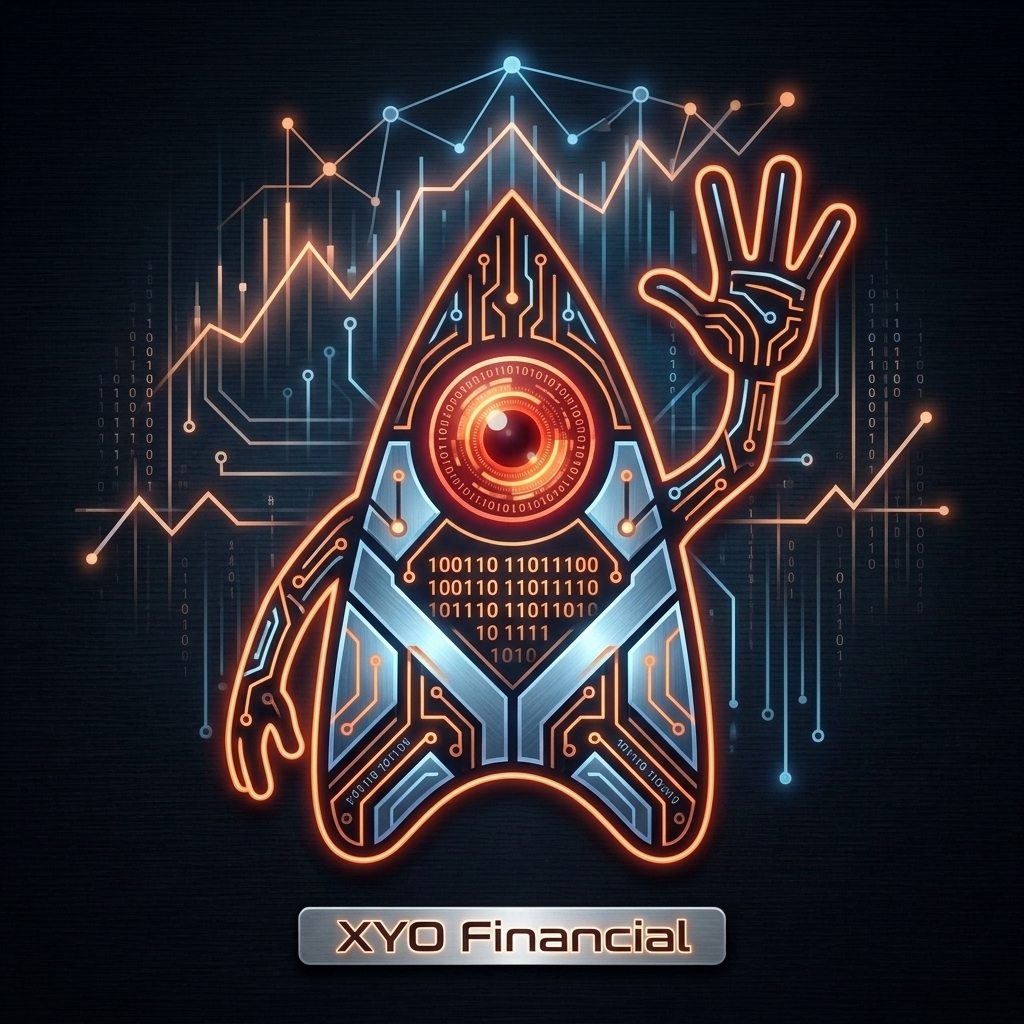
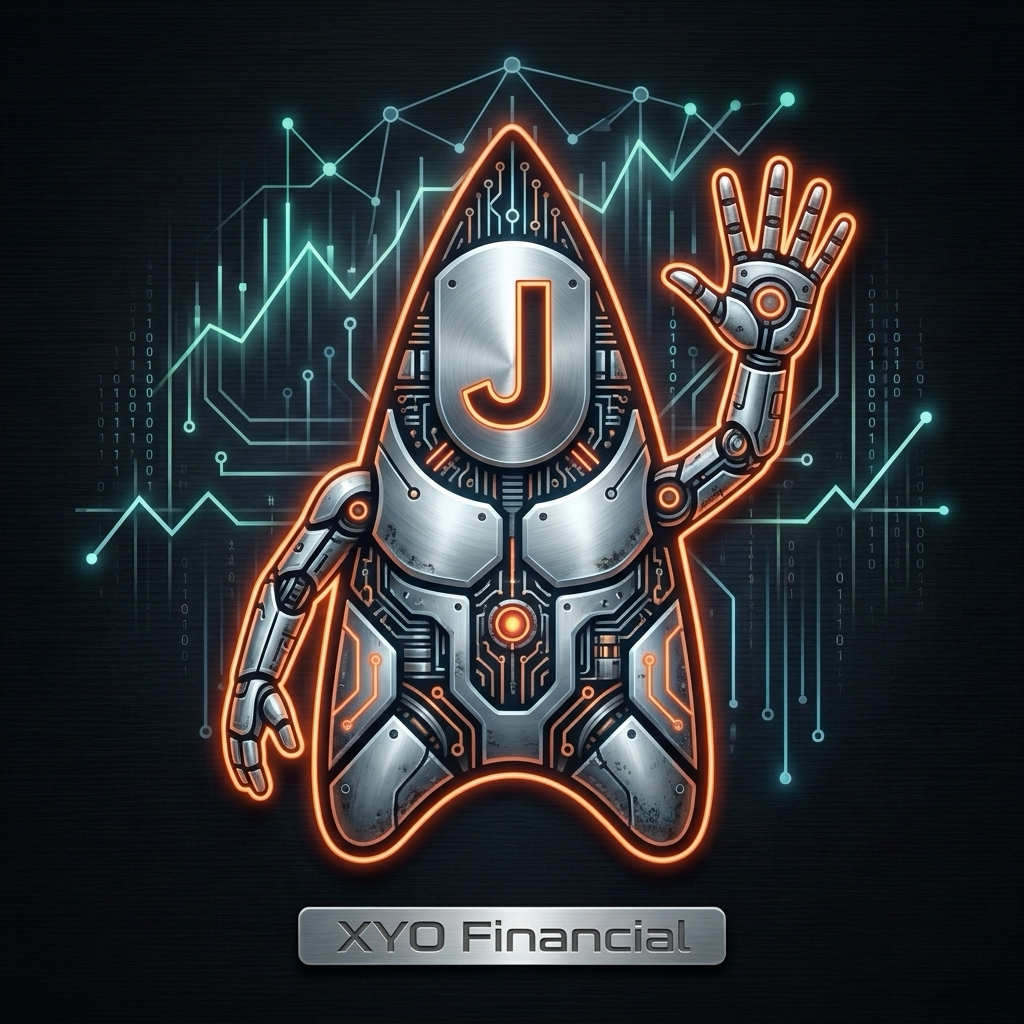
style(docs): update Java mascot with non-glowing plaque typography and refresh instructions

Changed region(s): [[0.0625, 0.0312, 0.9375, 0.8438], [0.3125, 0.875, 0.6875, 0.9375]]

diff --git a/docs/mascot_generation_instructions.md b/docs/mascot_generation_instructions.md
@@ -3,11 +3,10 @@
 The `mascot.png` image in this directory was generated using an AI image generation tool to match the cohesive high-tech aesthetic of our other SDKs.
 
 ## 💡 Idea and Concept
-The mascot is inspired by Duke, the iconic official mascot of the Java programming language. We reimagined Duke as a **sleek, cybernetic entity** featuring vibrant neon orange circuit board patterns. This design brings the classic mascot into the unified, high-tech aesthetic established by the Rust, Node.js, PHP, C++, and Golang SDK mascots. It also features the 'XYO Financial' plate.
+The mascot is inspired by Duke, the iconic official mascot of the Java programming language. We reimagined Duke as a **sleek, cybernetic entity** featuring vibrant neon orange circuit board patterns. This design brings the classic mascot into the unified, high-tech aesthetic established by the Rust, Node.js, PHP, C++, and Golang SDK mascots. It also features a brushed metal 'XYO Financial' plate with clean, matte non-glowing typography.
 
 ## 📋 Recreation Details
 * **Reference Images Used:** 
-  * `duke_reference.jpg` (Original Duke reference image)
-  * `../../rust/docs/rust_mascot_sleek_neon.jpg`
-  * `../../php/docs/mascot.png`
-* **Prompt Used:** "A futuristic neon illustration of Duke, the Java mascot. Duke has a sleek geometric design made of vibrant glowing neon orange circuit board patterns on a dark background, similar in mood, lighting, and artistic style to the provided reference cyber animal mascots. Include a metal plate at the bottom that says exactly 'XYO Financial'."
+  * `docs/mascot.png` (Previous Java mascot reference)
+  * `../../rust/docs/mascot.png` (Reference for non-glowing brushed steel plaque styling)
+* **Prompt Used:** "A futuristic neon cyber illustration of Duke, the Java mascot, inspired by the reference Java mascot image, with sleek cybernetic circuits and neon orange accents on a dark black/charcoal background. At the bottom, there is a polished brushed metal plaque/stand that reads exactly 'XYO Financial'. Unlike the glowing mascot, the text 'XYO Financial' on the metal plaque is cleanly engraved in crisp, matte non-glowing silver/white metallic letters with no neon glow on the alphabet characters, matching the non-glowing plaque lettering style seen in the reference Rust mascot image."
